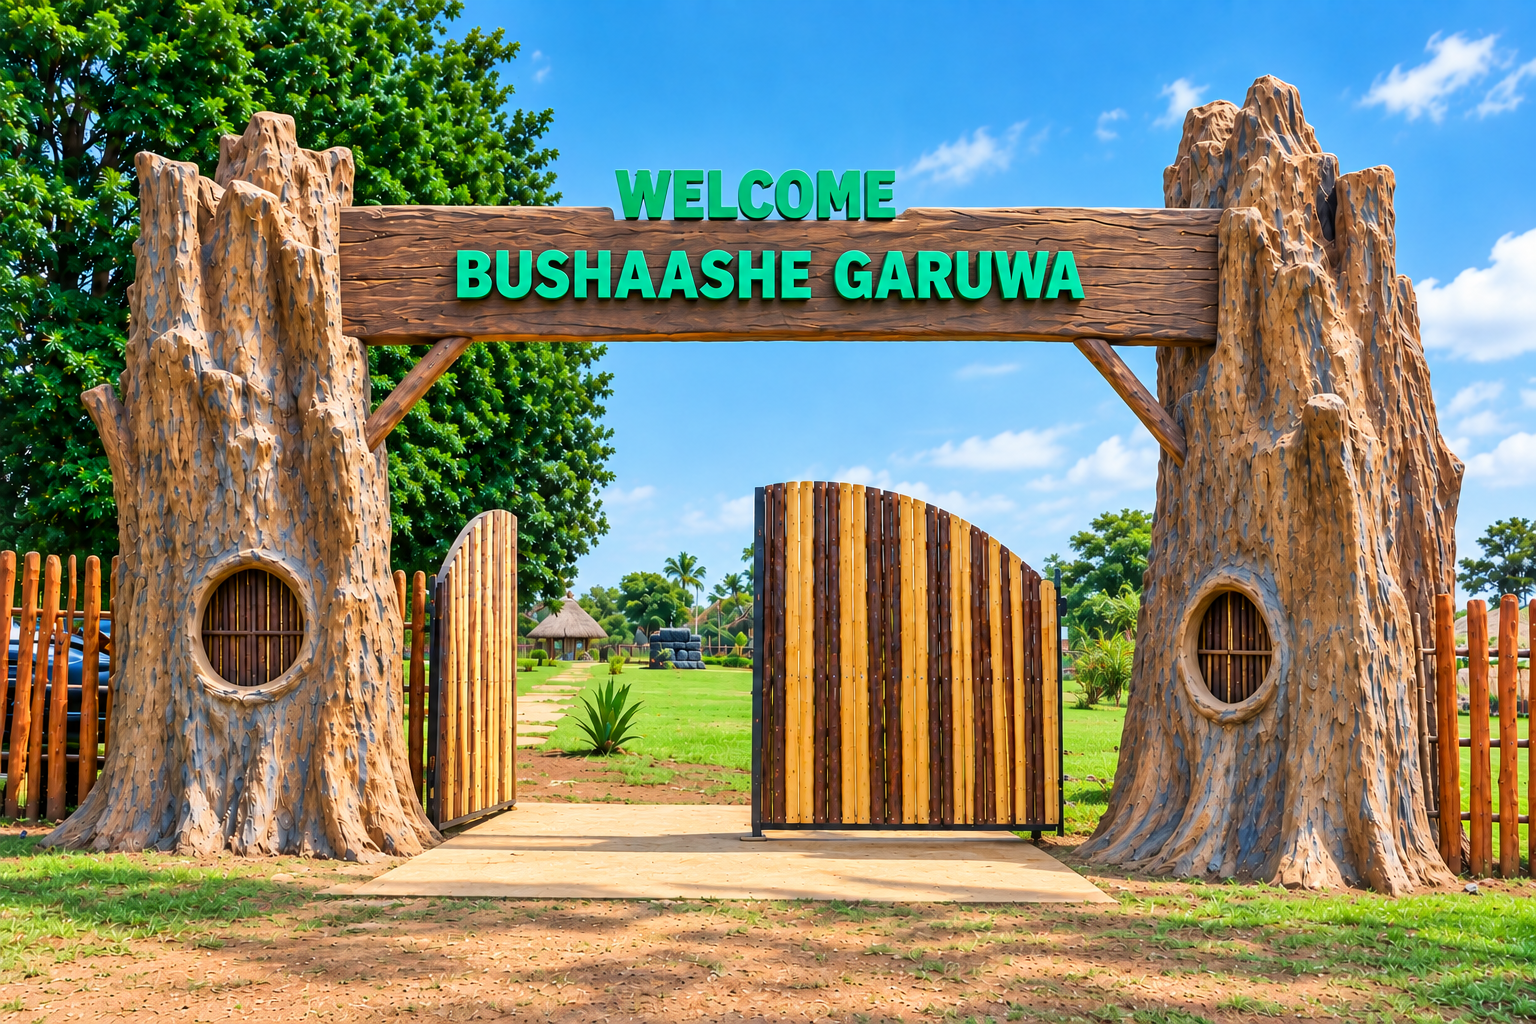
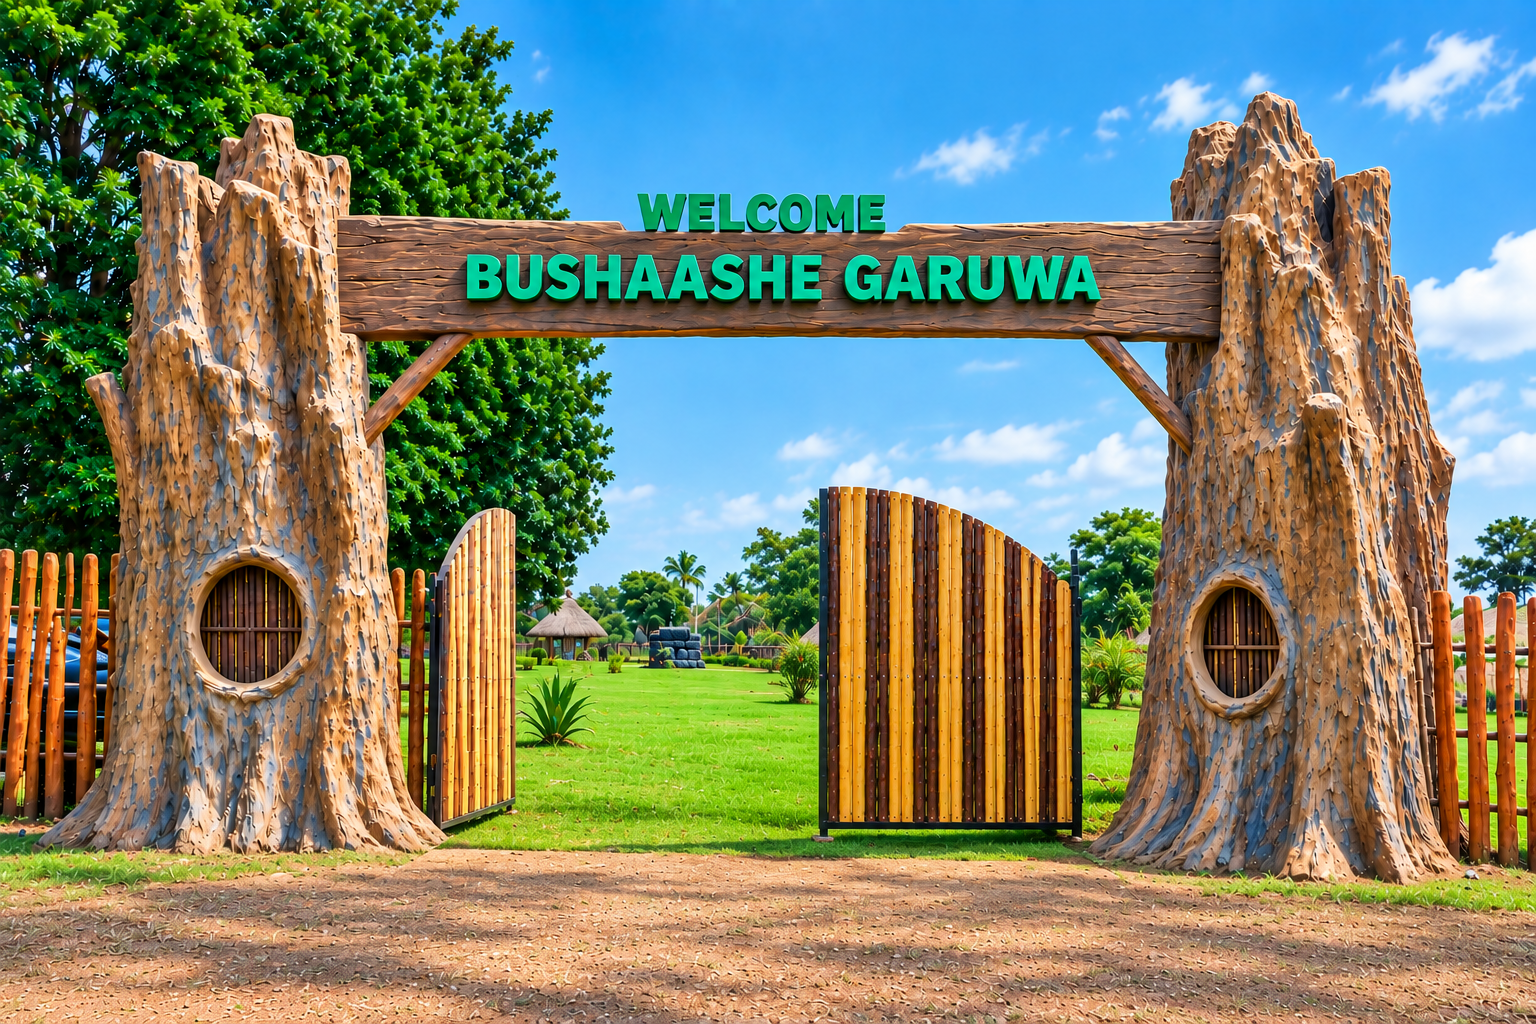
Header part of the page with a plain hamburger; clean green name; inner headings back to their style; sliding photo change; two-line name on phones; new main gate photo

diff --git a/frontend/src/components/Navbar.tsx b/frontend/src/components/Navbar.tsx
@@ -185,21 +185,17 @@ export default function Navbar() {
 
   return (
     <>
-      <header className="fixed top-0 inset-x-0 z-50 px-3 sm:px-5 pt-3">
-        {/* on the home photograph: no bar at all, just the words; everywhere else,
-            and once scrolling, a frosted pill that floats over the page */}
-        <div
-          className={`mx-auto max-w-screen-xl flex items-center justify-between gap-3 rounded-full border pl-2 pr-2 sm:pl-3 transition-all duration-500 ${
-            onPhoto ? 'bg-transparent border-transparent' : 'bg-white/85 backdrop-blur-xl border-white/60 shadow-[0_12px_40px_-18px_rgba(30,58,41,0.35)]'
-          } ${scrolled ? 'h-14 sm:h-16' : 'h-16 sm:h-[68px]'}`}
-        >
+      {/* part of the page, not a separate bar: on a photograph just the words;
+          otherwise the page's own paper colour, edge to edge, no border or shadow */}
+      <header className={`fixed top-0 inset-x-0 z-50 transition-colors duration-500 ${onPhoto ? 'bg-transparent' : 'bg-[#F4EFE4]'}`}>
+        <div className="mx-auto max-w-screen-xl h-16 sm:h-[72px] px-4 sm:px-8 flex items-center justify-between gap-3">
           <Link to="/" className="flex items-center gap-2.5 flex-shrink-0 group" aria-label={t.nav.homeAria}>
             <img
               src={logo}
               alt="Bushaashe Garuwa"
-              className={`rounded-full object-contain bg-white p-0.5 shadow-sm transition-all duration-500 group-hover:scale-105 ${scrolled ? 'w-10 h-10' : 'w-11 h-11'}`}
+              className="w-10 h-10 sm:w-11 sm:h-11 rounded-full object-contain bg-white p-0.5 transition-transform duration-500 group-hover:scale-105"
             />
-            <span className={`font-display text-[15px] sm:text-[17px] font-bold tracking-tight whitespace-nowrap transition-colors duration-500 text-[#15A864] ${onPhoto ? '[text-shadow:1px_1px_0_#0A5F38,0_0_3px_rgba(0,0,0,0.9),0_0_14px_rgba(0,0,0,0.7)]' : '[text-shadow:1px_1px_0_#0C7A48]'}`}>Bushaashe Garuwa</span>
+            <span className="font-display text-[16px] sm:text-[18px] font-bold tracking-tight whitespace-nowrap text-[#15A864]">Bushaashe Garuwa</span>
           </Link>
 
           {/* computers: every way in, right in the bar */}
@@ -226,12 +222,13 @@ export default function Navbar() {
               aria-label={open ? t.nav.closeMenu : t.nav.openMenu}
               aria-expanded={open}
               aria-controls="site-menu"
-              className={`lg:hidden grid place-items-center w-11 h-11 rounded-full transition-colors duration-300 ${open ? 'bg-[#1E3A29] text-[#F4EFE4]' : 'bg-[#86A94F] text-[#13261A]'}`}
+              className="lg:hidden grid place-items-center w-11 h-11 -mr-2 text-[#1E3A29]"
             >
-              <span className="relative block w-[18px] h-3">
-                <span className={`absolute left-0 right-0 h-[2px] rounded bg-current transition-all duration-500 ${open ? 'top-[5px] rotate-45' : 'top-0'}`} />
-                <span className={`absolute left-0 right-0 top-[5px] h-[2px] rounded bg-current transition-opacity duration-300 ${open ? 'opacity-0' : ''}`} />
-                <span className={`absolute left-0 right-0 h-[2px] rounded bg-current transition-all duration-500 ${open ? 'top-[5px] -rotate-45' : 'top-[10px]'}`} />
+              {/* a plain three-line icon that turns into a cross */}
+              <span className="relative block w-6 h-[18px]">
+                <span className={`absolute left-0 right-0 h-[2.5px] rounded-full bg-current transition-all duration-500 ${open ? 'top-[8px] rotate-45' : 'top-0'}`} />
+                <span className={`absolute left-0 right-0 top-[8px] h-[2.5px] rounded-full bg-current transition-opacity duration-300 ${open ? 'opacity-0' : ''}`} />
+                <span className={`absolute left-0 right-0 h-[2.5px] rounded-full bg-current transition-all duration-500 ${open ? 'top-[8px] -rotate-45' : 'top-[16px]'}`} />
               </span>
             </button>
           </div>

diff --git a/frontend/src/index.css b/frontend/src/index.css
@@ -177,32 +177,37 @@ a, button {
   transform: perspective(900px) rotateX(10deg);
   transform-origin: 50% 100%;
 }
-/* the home name on one line, sized to the screen so it always fits
-   (Amharic is much shorter, so it can be larger) */
-.hero-name { font-size: min(7vw, 6rem); }
-html:lang(am) .hero-name { font-size: min(13vw, 7.5rem); line-height: 1.25; }
+/* the home name, sized to the screen so it always fits: two lines on phones
+   and tablets, one line on computers (Amharic is shorter, so it can be larger) */
+.hero-name { font-size: min(12vw, 5.5rem); }
+html:lang(am) .hero-name { font-size: min(15vw, 7rem); line-height: 1.25; }
+@media (min-width: 1024px) {
+  .hero-name { font-size: min(7vw, 6rem); }
+  .hero-name .line-mask { display: inline-block; }
+  html:lang(am) .hero-name { font-size: min(13vw, 7.5rem); }
+}
 /* room under each line so the depth is not clipped by the rising mask */
 .brand-3d .line-mask { padding-bottom: 0.26em; margin-bottom: -0.2em; }
 
 /* ── Home hero slides ──
-   The new photograph opens from the right like a curtain while it settles from
-   a slight zoom; the one before drifts left and darkens underneath it. */
+   The new photograph slides in from the right while the last one slides out to
+   the left, both moving together, and it settles from a very slight zoom. */
 .hero-slide { position: absolute; inset: 0; overflow: hidden; }
 .hero-slide-first { z-index: 2; animation: fadeIn 1.2s ease both; }
-.hero-slide-in { z-index: 2; animation: heroWipe 1.5s cubic-bezier(0.77, 0, 0.18, 1) both; }
-.hero-slide-out { z-index: 1; animation: heroAway 1.5s cubic-bezier(0.77, 0, 0.18, 1) both; }
+.hero-slide-in { z-index: 2; animation: heroSlideIn 1.1s cubic-bezier(0.65, 0, 0.35, 1) both; }
+.hero-slide-out { z-index: 1; animation: heroSlideOut 1.1s cubic-bezier(0.65, 0, 0.35, 1) both; }
 .hero-slide-img { animation: heroSettle 5s cubic-bezier(0.2, 0.8, 0.2, 1) both; }
-@keyframes heroWipe {
-  from { clip-path: inset(0 0 0 100%); }
-  to   { clip-path: inset(0 0 0 0); }
+@keyframes heroSlideIn {
+  from { transform: translateX(100%); }
+  to   { transform: translateX(0); }
 }
 @keyframes heroSettle {
   from { transform: scale(1.06); }
   to   { transform: scale(1); }
 }
-@keyframes heroAway {
-  from { transform: translateX(0); filter: brightness(1); }
-  to   { transform: translateX(-14%); filter: brightness(0.6); }
+@keyframes heroSlideOut {
+  from { transform: translateX(0); }
+  to   { transform: translateX(-100%); }
 }
 @media (prefers-reduced-motion: reduce) {
   .hero-slide-in, .hero-slide-out { animation: fadeIn 0.6s ease both; }

diff --git a/frontend/src/pages/Home.tsx b/frontend/src/pages/Home.tsx
@@ -99,6 +99,7 @@ export default function Home() {
     setHeroIdx(n);
   };
   const { events: siteEvents } = useSiteEvents();
+  const [firstWord, ...rest] = h.hero.title.split(' ');
   const [showStickyCta, setShowStickyCta] = useState(false);
   const page = useRevealChildren<HTMLElement>();
 
@@ -135,7 +136,7 @@ export default function Home() {
             follow just below. Swipe on phones. */}
         <section className="relative" aria-label={h.hero.title}>
           <div
-            className="relative mt-[80px] sm:mt-[88px] aspect-[3/2] lg:mt-0 lg:aspect-auto lg:h-[100svh] lg:min-h-[560px] overflow-hidden bg-[#13261A]"
+            className="relative mt-16 sm:mt-[72px] aspect-[3/2] lg:mt-0 lg:aspect-auto lg:h-[100svh] lg:min-h-[560px] overflow-hidden bg-[#13261A]"
             onTouchStart={(e) => { touchX.current = e.touches[0]?.clientX ?? null; }}
             onTouchEnd={(e) => {
               const start = touchX.current; touchX.current = null;
@@ -182,10 +183,11 @@ export default function Home() {
 
           {/* the words, just below the photograph */}
           <div className="relative z-[5] max-w-screen-xl mx-auto px-5 sm:px-8 pt-6 sm:pt-10 pb-6">
-            {/* the name in the lettering of the main gate, raised in 3D, on one line that
-                grows with the screen so it always fits */}
+            {/* the name in the lettering of the main gate, raised in 3D, sized to the screen */}
             <h1 className="hero-name brand-sign brand-3d whitespace-nowrap leading-[1] mb-6 lg:mb-8">
-              <span className="line-mask"><span>{h.hero.title}</span></span>
+              {/* phones and tablets: two lines; computers: one line */}
+              <span className="line-mask"><span>{firstWord}</span></span>{' '}
+              <span className="line-mask d2"><span>{rest.join(' ')}</span></span>
             </h1>
             <div className="flex flex-col lg:flex-row lg:items-end justify-between gap-6 lg:gap-12 animate-fade-up delay-300">
               <div className="max-w-xl">

diff --git a/frontend/src/components/PageHero.tsx b/frontend/src/components/PageHero.tsx
@@ -6,7 +6,7 @@ import { useI18n } from '../i18n/I18nProvider';
  * Opening section of the inner pages, drawn like the home page: the photograph
  * fills the whole screen, edge to edge, shown clearly with nothing laid over it;
  * the label, the title and the description follow just below. Any <span> inside
- * the title stays part of it; the whole title is set in the gate's lettering.
+ * the title is picked out in moss green.
  */
 export default function PageHero({ eyebrow, title, desc, photo, pos = 'object-center' }: {
   eyebrow: string;
@@ -21,7 +21,7 @@ export default function PageHero({ eyebrow, title, desc, photo, pos = 'object-ce
 
   return (
     <section className="relative">
-      <div className="relative mt-[80px] sm:mt-[88px] aspect-[3/2] lg:mt-0 lg:aspect-auto lg:h-[100svh] lg:min-h-[560px] overflow-hidden bg-[#13261A]">
+      <div className="relative mt-16 sm:mt-[72px] aspect-[3/2] lg:mt-0 lg:aspect-auto lg:h-[100svh] lg:min-h-[560px] overflow-hidden bg-[#13261A]">
         <div className="hero-slide hero-slide-first">
           <img
             src={photos[photo]}
@@ -42,8 +42,7 @@ export default function PageHero({ eyebrow, title, desc, photo, pos = 'object-ce
       <div className="relative z-[5] pt-6 sm:pt-10 max-w-screen-xl mx-auto px-5 sm:px-8 pb-6 sm:pb-10 grid lg:grid-cols-[1.4fr_1fr] gap-5 lg:gap-16 lg:items-end">
         <div>
           <span className="eyebrow mb-5 animate-fade-up">{eyebrow}</span>
-          {/* in the lettering of the main gate, like the home page */}
-          <h1 className="brand-sign text-[2rem] sm:text-5xl lg:text-[3.6rem] leading-[1.02]">
+          <h1 className="font-display text-[2.6rem] sm:text-6xl lg:text-7xl font-extrabold text-[#1E3A29] leading-[0.98] [&>span>span_span]:text-[#6F9443]">
             <span className="line-mask"><span>{title}</span></span>
           </h1>
         </div>
